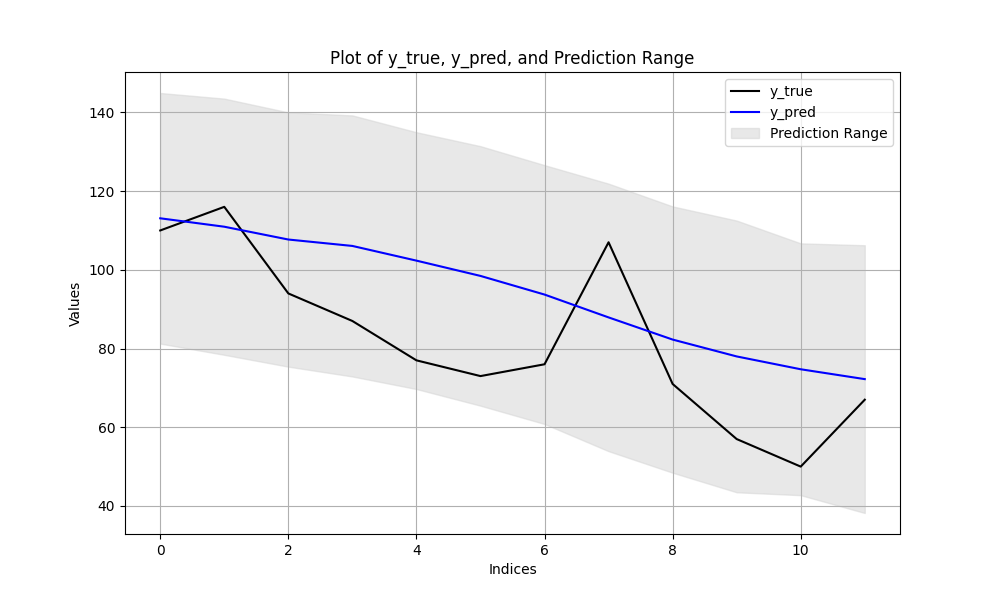
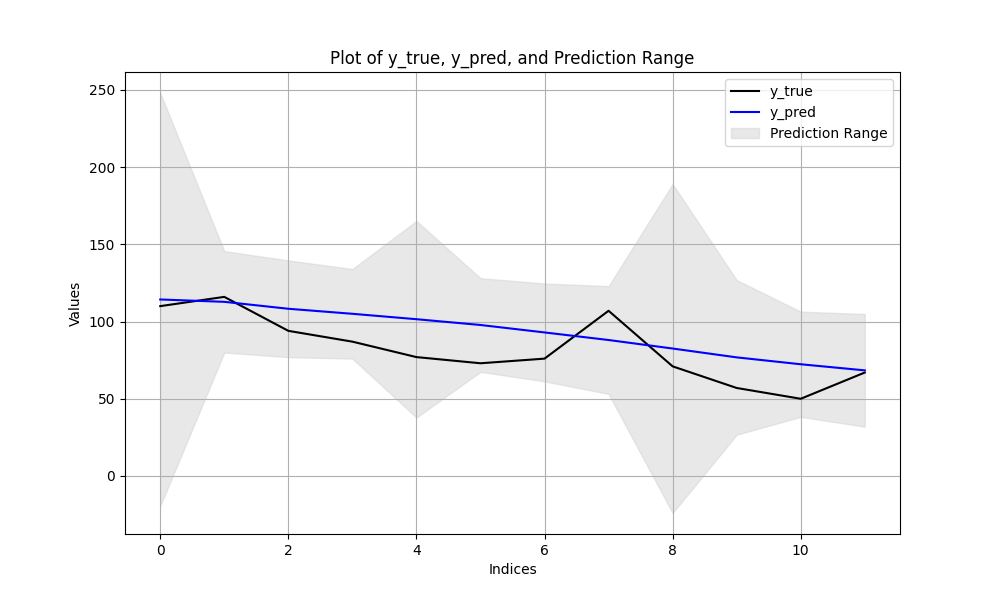
solve conflict

diff --git a/main.py b/main.py
@@ -164,13 +164,13 @@ if args.lr_decay:
 # trainer.save_to_file('./station_model_file/trainer_100.pth')
 
 
-# # AWA Re-training
-trainer = Trainer.load_from_file('train_station.pth')
+### AWA Re-training
+trainer = Trainer.load_from_file('./station_model_file/trainer_100.pth')
 # model = awa_train_combined(trainer,epoch_swa=20) #trainer.model #20
 # torch.save(model.state_dict(), './station_model_file/awa_train_20.pth')
 
 averaged_model = AveragedModel(trainer.model)
-averaged_model.load_state_dict(torch.load('awa_train_station.pth'))
+averaged_model.load_state_dict(torch.load('./station_model_file/awa_train_20.pth'))
 
 
 
@@ -179,7 +179,7 @@ averaged_model.load_state_dict(torch.load('awa_train_station.pth'))
 # torch.save(T, "./station_model_file/T_10.pth")
 
 ### Model testing
-loaded_T = torch.load("./station_model_file/T_station.pth")
-combined_test(trainer.model,1,trainer.args, trainer.test_loader, scaler,loaded_T)#10
+loaded_T = torch.load("./station_model_file/T_10.pth")
+combined_test(trainer.model,10,trainer.args, trainer.test_loader, scaler,loaded_T)#10
 
-plot_vi('predictions_test.csv', "vi_test.png")
+plot_vi('predictions.npy', "vi_test.png")

diff --git a/lib/add_window.py b/lib/add_window.py
@@ -21,7 +21,7 @@ def Add_Window_Horizon(data, window=3, horizon=1, single=False):
         while index < end_index:
             X.append(data[index:index+window])
             Y.append(data[index+window:index+window+horizon])
-            index = index + 1
+            index = index + window #1
     X = np.array(X)
     Y = np.array(Y)
     return X, Y

diff --git a/model/test_methods.py b/model/test_methods.py
@@ -97,7 +97,7 @@ def extract_from_window(data, window=3, horizon=1, single=False):
     return concatenated_data
 
 def save_pred(y_true, y_pred, lower_bound, upper_bound, csv_file_path):
-    print(y_true.size())
+    print("y_true", y_true.size())
 
     y_true_node = y_true[-1,:,-1]
     y_pred_node = y_pred[-1,:,-1]
